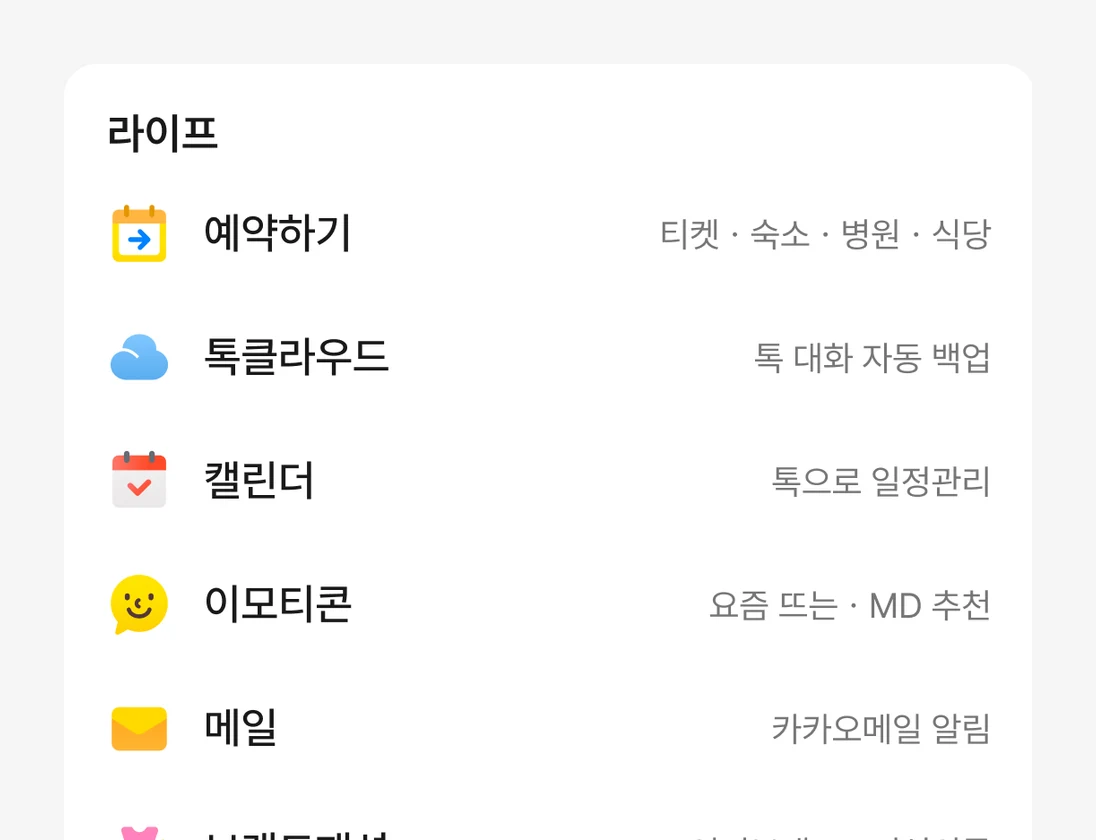
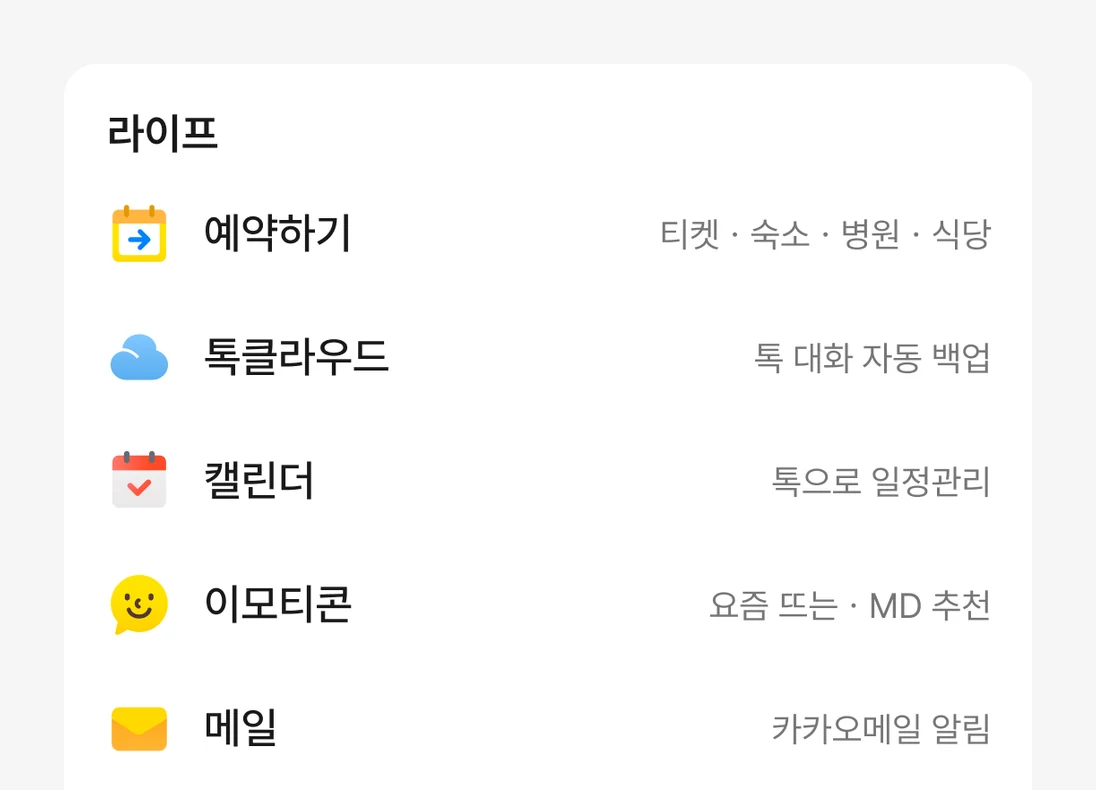
CASE 03 detail: apply final review copy, device-specific hero caption, cleaner list crop

diff --git a/grid-list-hybrid.html b/grid-list-hybrid.html
@@ -35,50 +35,50 @@
     <figure class="cs-hero">
       <picture>
         <source media="(max-width:820px)" srcset="img/case03/hero-m.webp" width="700" height="1407">
-        <img src="img/case03/hero.webp" width="2240" height="1491" alt="실험안 D의 더보기탭 화면을 두 단으로 이어 보여준다. 왼쪽은 상단 제목과 칩, 페이 영역, 4열 2행 서비스 그리드와 광고, 오른쪽은 그 아래 라이프 카테고리 리스트">
+        <img src="img/case03/hero.webp" width="2240" height="1491" alt="실험안 D 더보기탭 화면의 두 구간. 넓은 화면에서는 상단 제목·칩·페이 영역·4열 2행 그리드·광고 구간과 그 아래 카테고리 리스트 구간을 나란히, 좁은 화면에서는 상단부터 리스트 시작까지 한 단으로 보여준다">
       </picture>
-      <figcaption>실험안 D · 4×2 그리드와 그 아래 카테고리 리스트. 중간 결과를 바탕으로 정식화 기준안으로 검토하고 있으며, 최종 결과는 아직입니다.</figcaption>
+      <figcaption><span class="cs-cap-d">실험안 D의 상단 그리드와 아래쪽 리스트를 한 화면의 서로 다른 구간에서 가져와 나란히 배치했습니다. D안은 정식화 기준안으로 검토 중이며, 최종 판정 전입니다.</span><span class="cs-cap-m">실험안 D · 첫 화면의 4×2 그리드와 아래로 이어지는 카테고리 리스트. 정식화 기준안으로 검토 중이며, 최종 판정 전입니다.</span></figcaption>
     </figure>
 
     <section class="cs-sec">
       <h2>출발점</h2>
-      <p>앞선 리스트형 탐색 실험에서 채택한 카테고리 리스트안은 광고 매출을 늘렸지만, 서비스 클릭은 9% 줄었습니다. 같은 실험에서 선물하기를 리스트 맨 위에 두자 감소 폭이 3분의 1로 줄었습니다. 서비스가 첫 화면의 어디에 놓이는지가 클릭을 좌우하고 있었습니다.</p>
-      <p>그리드는 자주 쓰는 서비스에 빠르게 닿게 하고, 리스트는 더 많은 서비스를 설명과 함께 보여줍니다. 둘 중 하나를 고르는 대신 역할을 나누기로 했습니다. 이 방향으로 직접 테스트하던 혼합안이 다음 실험의 공식 실험안이 됐습니다.</p>
+      <p>앞선 리스트형 탐색 실험에서 채택한 카테고리 리스트안은 광고 매출을 늘렸지만, 서비스 클릭은 9% 줄었습니다. 같은 실험에서 선물하기를 리스트 맨 위에 두자 감소 폭이 3분의 1로 줄었습니다. 서비스가 첫 화면의 어디에 놓이는지가 클릭에 영향을 줄 수 있다는 단서였습니다.</p>
+      <p>그리드에서는 주요 서비스를 첫 화면에 배치할 수 있고, 리스트에서는 더 많은 서비스를 설명과 함께 보여줄 수 있었습니다. 둘 중 하나를 고르는 대신 역할을 나누기로 했습니다. 이 방향으로 직접 테스트하던 혼합안이 다음 실험의 공식 실험안이 됐습니다.</p>
     </section>
 
     <section class="cs-sec">
       <h2>디자인</h2>
-      <p>주요 서비스는 첫 화면 그리드에서 바로 찾고, 나머지는 카테고리 리스트에서 둘러보도록 구성했습니다. 리스트는 서비스 이름 옆에 한 줄 설명을 붙여, 이름만으로는 알기 어려운 서비스도 고를 수 있게 했습니다.</p>
+      <p>주요 서비스는 첫 화면의 그리드에 배치하고, 그 아래에는 카테고리별 리스트를 이어 붙였습니다. D안에서는 그리드에 있는 일부 서비스도 리스트에서 다시 찾을 수 있도록 했습니다. 리스트는 서비스 이름 옆에 한 줄 설명을 붙여, 이름만으로는 알기 어려운 서비스도 고를 수 있게 했습니다.</p>
     </section>
 
     <div class="cs-pair">
       <figure>
-        <img src="img/case03/grid.webp" width="1096" height="840" alt="첫 화면 서비스 그리드. 선물하기, 받은선물, 톡딜, 이모티콘과 라이브쇼핑, 메이커스, 프렌즈, 모바일신분증이 4열 2행으로 놓여 있다">
-        <figcaption>첫 화면 그리드 · 4열 2행, 그래픽 아이콘</figcaption>
+        <img src="img/case03/grid.webp" width="1096" height="790" alt="첫 화면 서비스 그리드. 선물하기, 받은선물, 톡딜, 이모티콘과 라이브쇼핑, 메이커스, 프렌즈, 모바일신분증이 4열 2행으로 놓여 있다">
+        <figcaption>첫 화면 그리드 · 주요 서비스 8개를 4×2로 배치했습니다.</figcaption>
       </figure>
       <figure>
-        <img src="img/case03/list.webp" width="1096" height="840" alt="그리드 아래 라이프 카테고리 리스트. 예약하기, 톡클라우드, 캘린더, 그리드에도 있는 이모티콘, 메일이 이름과 한 줄 설명으로 놓여 있다">
-        <figcaption>그리드 아래 카테고리 리스트 · 그리드에 있는 이모티콘도 리스트에 다시 보여줍니다</figcaption>
+        <img src="img/case03/list.webp" width="1096" height="790" alt="그리드 아래 라이프 카테고리 리스트. 예약하기, 톡클라우드, 캘린더, 그리드에도 있는 이모티콘, 메일이 이름과 한 줄 설명으로 놓여 있다">
+        <figcaption>카테고리 리스트 · 그리드에 노출된 이모티콘도 다시 표시했습니다.</figcaption>
       </figure>
     </div>
 
     <section class="cs-sec cs-sec--tight">
-      <p>그리드의 행과 열, 첫 화면에 둘 서비스, 리스트의 중복 노출 여부만 달리해 네 가지 안을 만들었습니다. A는 4×3, B와 D는 4×2, C는 5×2 그리드를 쓰고, D는 그리드의 서비스를 리스트에도 다시 보여줬습니다. 실험안의 아이콘은 디자인 검토를 거쳐 홈 화면 다른 영역과 같은 그래픽 아이콘으로 맞췄습니다.</p>
+      <p>그리드의 칸 수와 서비스 배치, 리스트에서의 중복 노출 여부를 달리해 네 가지 안을 디자인했습니다. A는 4×3, B와 D는 4×2, C는 5×2 그리드를 쓰고, D는 그리드의 서비스를 리스트에도 다시 보여줬습니다. 실험안의 아이콘은 디자인 검토를 거쳐 홈 화면 다른 영역과 같은 그래픽 아이콘으로 맞췄습니다.</p>
     </section>
 
     <section class="cs-sec">
       <h2>결과를 확인하며</h2>
       <p>중간 결과에서 서비스 클릭은 네 안 모두 대조군보다 줄었습니다. 커머스 가드레일은 네 안 모두 지켰습니다.</p>
-      <p>지표를 나눠 보니 알림이 없는 서비스의 클릭은 모든 안에서 오히려 늘었습니다. 줄어든 것은 알림 점이 켜진 서비스로 돌아가는 클릭이었고, 알림이 많은 날일수록 감소가 컸습니다.</p>
-      <p class="cs-note">알림 없는 서비스 클릭 +1.5~6.8%, 알림 켜진 서비스 클릭 −10.3~17.1% · Android, 집행 첫 14일, 대조군 대비</p>
-      <p>일별 추이를 확인하다가 iOS 일부 버전에서 실험안의 하단 탭 알림 점이 표시되지 않는 문제를 발견했습니다. 바로 공유했고, 클라이언트 핫픽스가 적용돼 실험은 중단 없이 이어졌습니다. 최종 판정은 수정된 버전을 기준으로 하기로 했습니다.</p>
-      <p>이 문제가 클릭 감소의 유일한 원인이라고 보지는 않습니다. 그래픽 아이콘 위에서 알림 점이 덜 눈에 띄는지도 함께 확인하고 있습니다.</p>
+      <p>Android의 중간 지표를 살펴보니, 알림이 없는 서비스의 클릭은 모든 실험안에서 증가했습니다. 반면 알림이 표시된 서비스에서는 클릭 감소가 두드러졌습니다. 일별 추이에서도 알림이 많은 날에 감소 폭이 큰 경향을 확인했습니다.</p>
+      <p class="cs-note">Android · 집행 첫 14일 · 사용자당 클릭 · 대조군 대비. 알림 없는 서비스 +1.5~+6.8%, 알림 있는 서비스 −17.1~−10.3% (중간 집계)</p>
+      <p>별도로 일별 실험 결과를 확인하는 과정에서 iOS 일부 버전의 하단 탭에 알림 점이 표시되지 않는 문제도 발견했습니다. 문제를 공유한 뒤 클라이언트 핫픽스가 적용됐고, 실험은 중단 없이 이어졌습니다. 최종 판정은 수정된 버전을 기준으로 하기로 했습니다.</p>
+      <p>알림 표시 문제만으로 클릭 감소를 설명하기는 어렵습니다. 아이콘 표현과 서비스 배치가 미친 영향도 함께 살펴보고 있습니다.</p>
     </section>
 
     <section class="cs-sec">
       <h2>다음 판단</h2>
-      <p>중간 결과를 받아, 자주 쓰던 서비스로 더 쉽게 돌아갈 수 있는 방법을 다시 설계하고 있습니다. 중복 노출안을 기준으로 최근 사용 서비스, 직접 고정하는 서비스, 카테고리 바로가기, 지금 챙길 일을 보여주는 카드를 검토 중입니다.</p>
-      <p>더 많은 서비스를 보여주는 것과 필요한 서비스를 쉽게 찾게 하는 것은 같은 문제가 아니었습니다. 최종 결과는 실험이 끝나면 반영합니다.</p>
+      <p>중간 결과를 바탕으로, 자주 쓰던 서비스에 다시 접근하기 쉬운 구조를 검토하고 있습니다. 중복 노출안을 기준으로 최근 사용 서비스, 직접 고정하는 서비스, 카테고리 바로가기 등의 보완안을 살펴보고 있습니다.</p>
+      <p>최종 결과가 확인되면 이를 바탕으로 다음 설계 방향을 정리할 예정입니다.</p>
     </section>
 
     <section class="cs-sec cs-role">

diff --git a/css/case.css b/css/case.css
@@ -11,14 +11,15 @@
 
 .cs-hero { margin:64px 0 0; }
 .cs-hero img { display:block; width:100%; height:auto; background:#F5F5F5; }
-.cs figcaption { margin-top:12px; font-size:13px; line-height:1.6; color:var(--cap); }
+.cs figcaption { margin-top:12px; font-size:13px; line-height:1.55; color:var(--sub); }
+.cs-cap-m { display:none; }
 
 .cs-sec { max-width:720px; margin-top:112px; }
 .cs-sec--tight { margin-top:56px; }
 .cs-sec h2 { font-size:22px; line-height:1.4; font-weight:700; letter-spacing:-.02em; margin-bottom:20px; }
 .cs-sec p { font-size:18px; line-height:1.85; color:var(--ink); }
 .cs-sec p + p { margin-top:24px; }
-.cs-sec p.cs-note { margin-top:12px; font-size:14px; line-height:1.6; color:var(--cap); }
+.cs-sec p.cs-note { margin-top:12px; font-size:13px; line-height:1.6; color:var(--sub); }
 .cs-sec p.cs-note + p { margin-top:24px; }
 
 .cs-pair { margin-top:56px; display:grid; grid-template-columns:1fr 1fr; gap:24px; }
@@ -38,6 +39,8 @@
   .cs-meta { gap:16px 32px; }
   .cs-hero { margin-top:40px; margin-left:calc(-1 * var(--gutter, 20px)); margin-right:calc(-1 * var(--gutter, 20px)); }
   .cs-hero figcaption { padding:0 var(--gutter, 20px); }
+  .cs figcaption { margin-top:10px; line-height:1.6; }
+  .cs-cap-d { display:none; } .cs-cap-m { display:inline; }
   .cs-sec { margin-top:80px; }
   .cs-sec--tight { margin-top:40px; }
   .cs-sec h2 { font-size:20px; }
